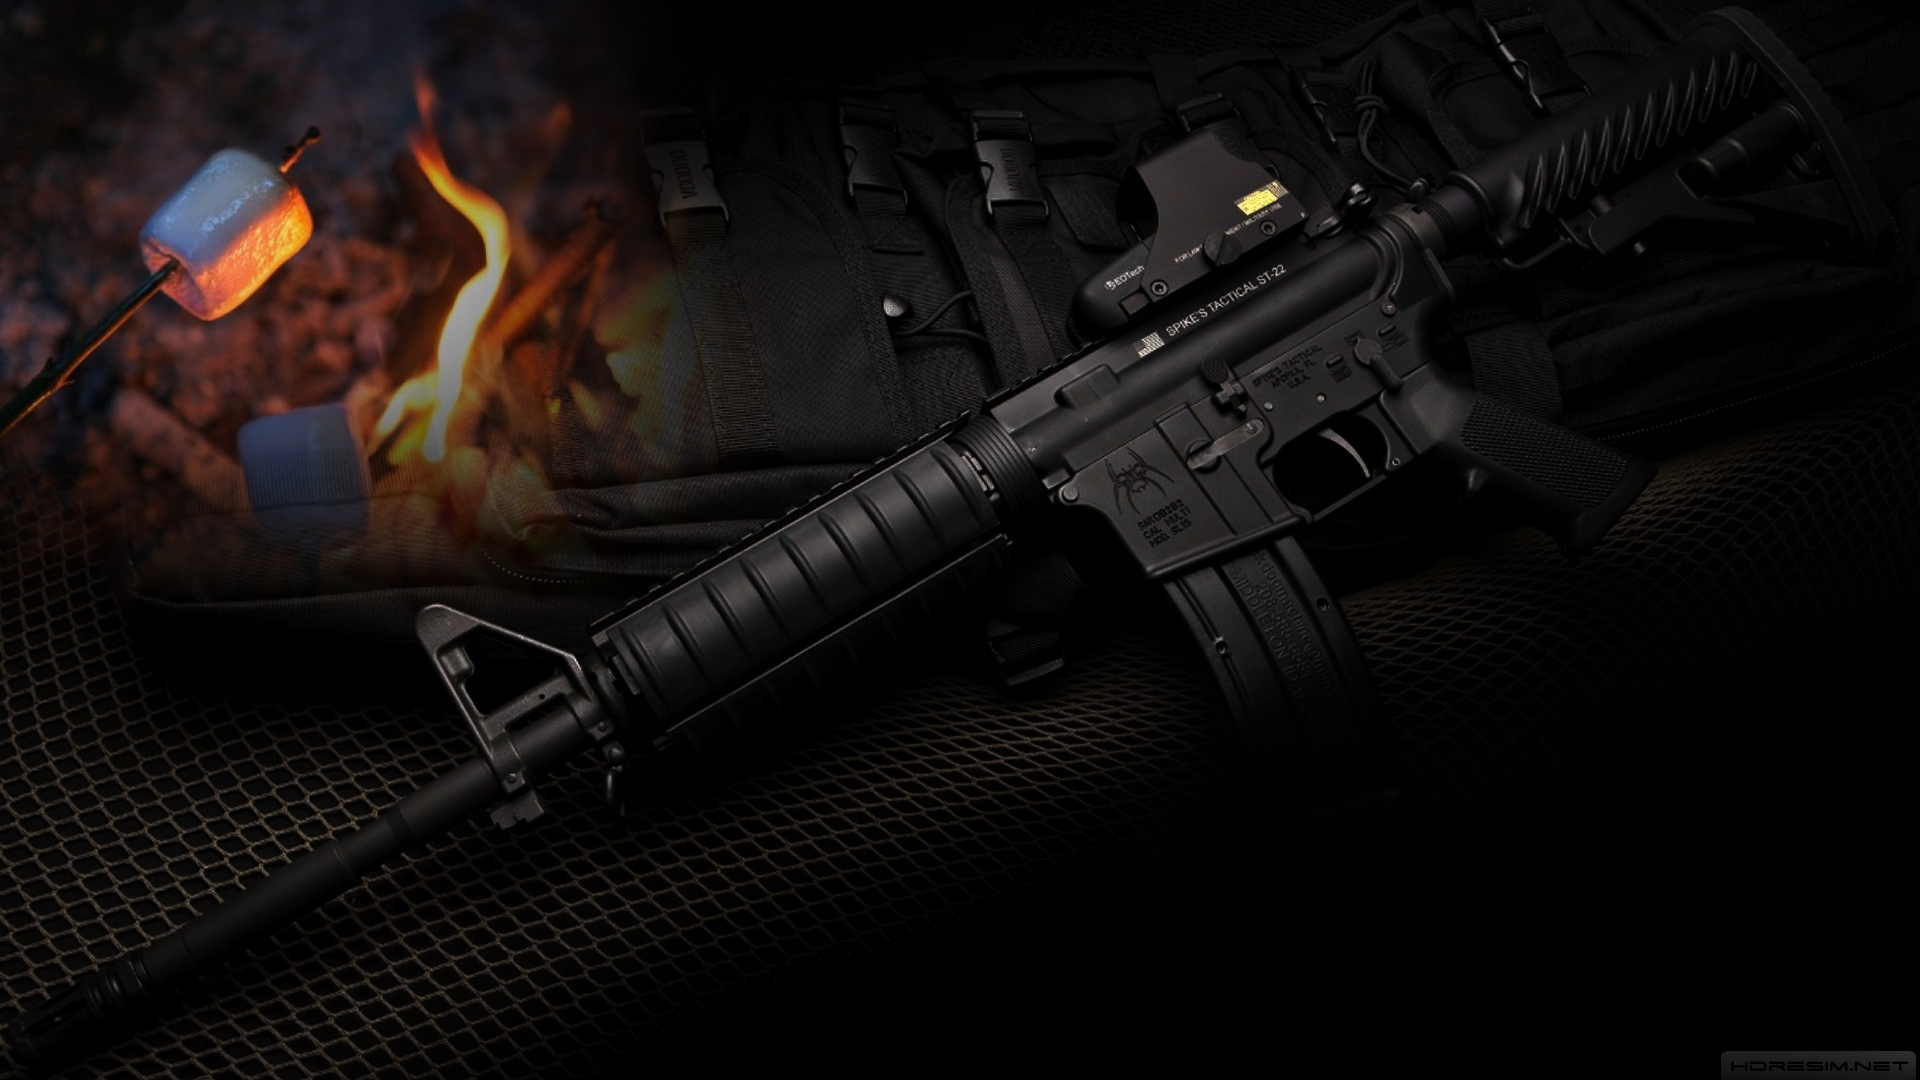
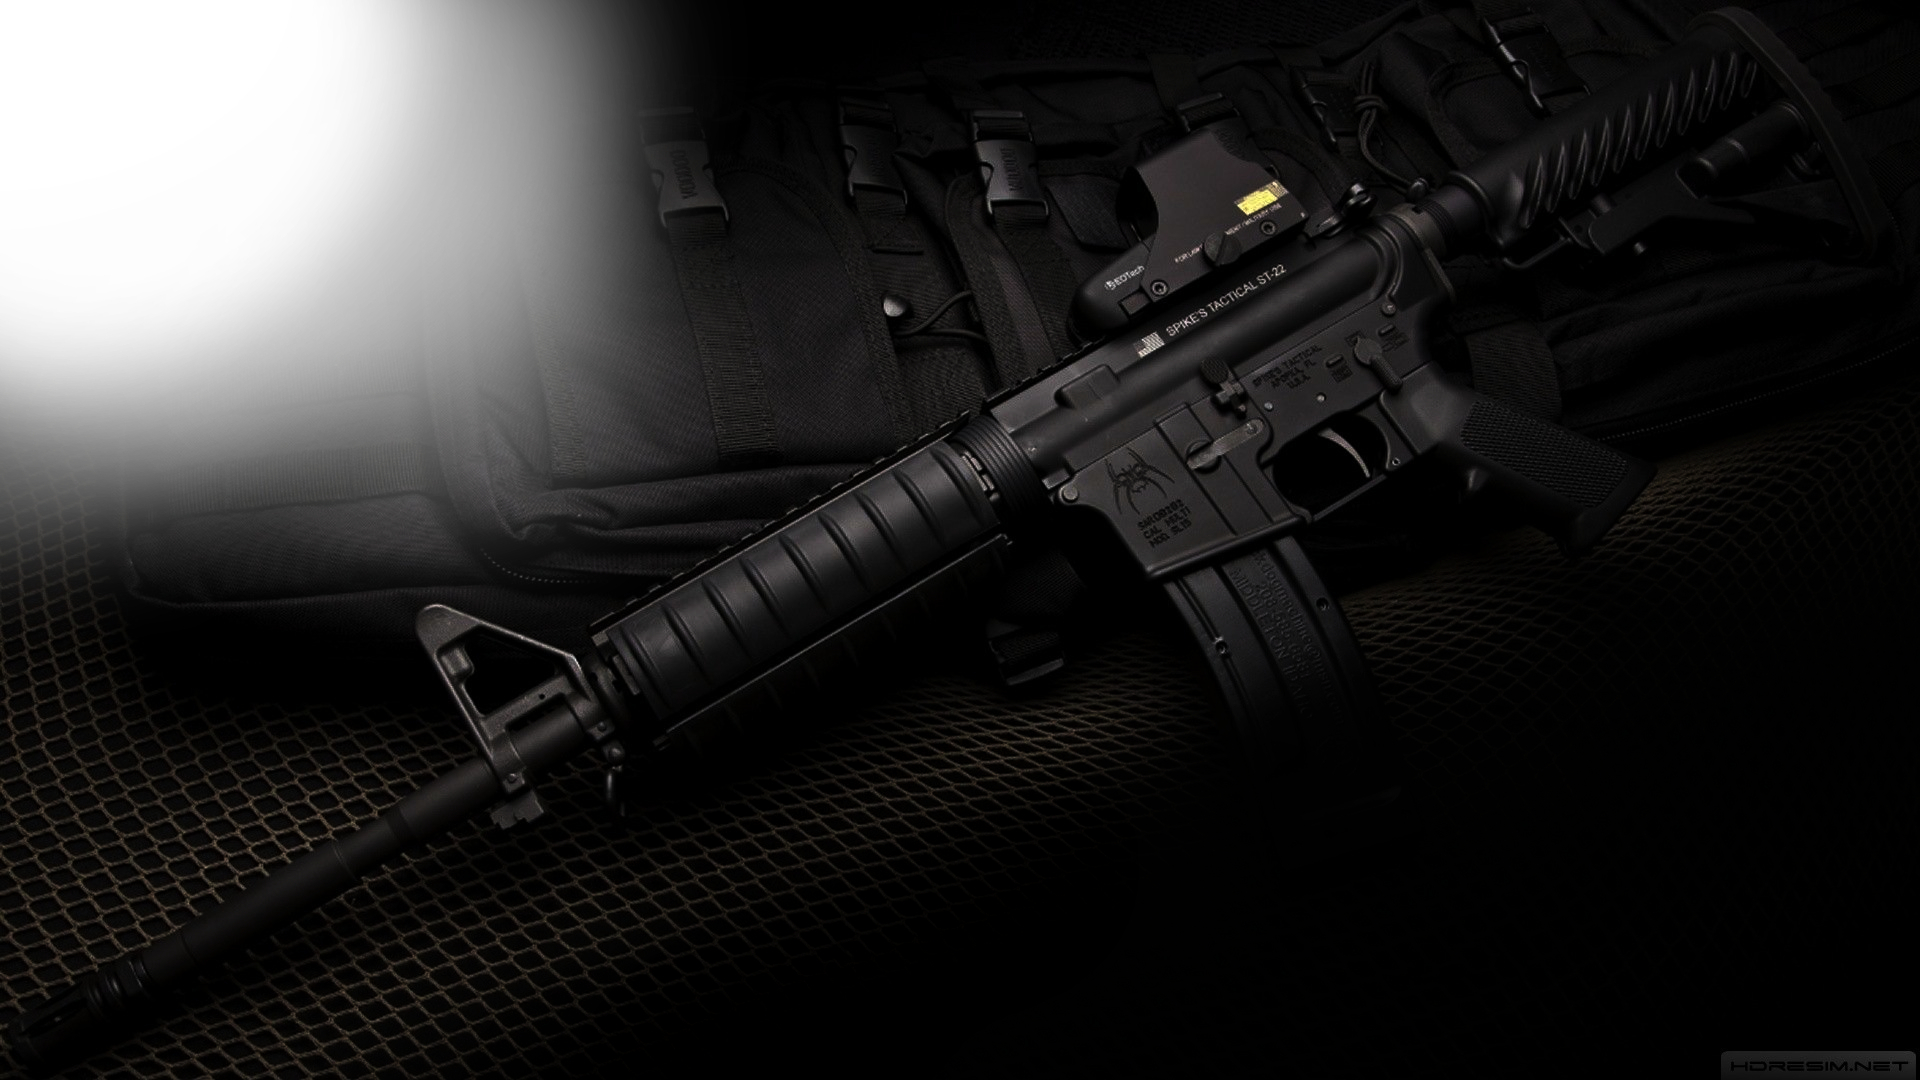
animowane tlo!

Changed region(s): [[0.0, 0.0, 0.3438, 0.55]]

diff --git a/app/assets/styles/styles.css b/app/assets/styles/styles.css
@@ -42,7 +42,14 @@ wbr:after {
 }
 
 /* ============================================= S E K C J E =========================================== */
-
+.campfire{
+    position: fixed;
+    width:1200px;
+    height:1200px;
+    z-index: -200;
+    left:-200px;
+    top:-200px;
+}
 .landingPage {
     position: relative;
     width: 100%;
@@ -90,12 +97,13 @@ wbr:after {
         }
 
     }
-    img {
+    .m4a1 {
         position: fixed;
         z-index: -100;
         min-width: 100vw;
         min-height: 100vh;
     }
+
     .logo {
         position: absolute;
         top: 25vh;
@@ -126,8 +134,11 @@ wbr:after {
         line-height: 2rem;
         position: absolute;
         right:10%;
-        bottom:10%;
+        bottom:120px;
         font-size: 1.5rem;
+        p{
+            padding-bottom:20px;
+        }
     }
 }
 .section_title{
@@ -142,14 +153,15 @@ wbr:after {
 .oferta {
     font-size: 1rem;
     position: relative;
+    min-height: 100vh;
     /* Permalink - use to edit and share this gradient: http://colorzilla.com/gradient-editor/#000000+100,000000+100&0+1,1+14,1+100 */
-background: -moz-linear-gradient(top, rgba(0,0,0,0) 1%, rgba(0,0,0,1) 14%, rgba(0,0,0,1) 100%); /* FF3.6-15 */
-background: -webkit-linear-gradient(top, rgba(0,0,0,0) 1%,rgba(0,0,0,1) 14%,rgba(0,0,0,1) 100%); /* Chrome10-25,Safari5.1-6 */
-background: linear-gradient(to bottom, rgba(0,0,0,0) 1%,rgba(0,0,0,1) 14%,rgba(0,0,0,1) 100%); /* W3C, IE10+, FF16+, Chrome26+, Opera12+, Safari7+ */
+background: -moz-linear-gradient(top, rgba(0,0,0,0) 0%, rgba(0,0,0,1) 14%, rgba(0,0,0,1) 100%); /* FF3.6-15 */
+background: -webkit-linear-gradient(top, rgba(0,0,0,0) 0%,rgba(0,0,0,1) 14%,rgba(0,0,0,1) 100%); /* Chrome10-25,Safari5.1-6 */
+background: linear-gradient(to bottom, rgba(0,0,0,0) 0%,rgba(0,0,0,1) 14%,rgba(0,0,0,1) 100%); /* W3C, IE10+, FF16+, Chrome26+, Opera12+, Safari7+ */
 filter: progid:DXImageTransform.Microsoft.gradient( startColorstr='#00000000', endColorstr='#000000',GradientType=0 ); /* IE6-9 */
     display: flex;
     flex-direction: column;
-    justify-content: space-around;
+    justify-content: space-evenly;
     padding-top: 200px;
     p {
         font-family: hemi;

diff --git a/app/styles.css b/app/styles.css
@@ -526,6 +526,15 @@ wbr:after {
 
 /* ============================================= S E K C J E =========================================== */
 
+.campfire{
+    position: fixed;
+    width:1200px;
+    height:1200px;
+    z-index: -200;
+    left:-200px;
+    top:-200px;
+}
+
 .landingPage {
     position: relative;
     width: 100%;
@@ -581,7 +590,7 @@ wbr:after {
   border-color:rgb(189, 0, 0);
 }
 
-.landingPage img {
+.landingPage .m4a1 {
   position: fixed;
   z-index: -100;
   min-width: 100vw;
@@ -624,8 +633,12 @@ wbr:after {
   line-height: 2rem;
   position: absolute;
   right:10%;
-  bottom:10%;
+  bottom:120px;
   font-size: 1.5rem;
+}
+
+.landingPage .opis p{
+  padding-bottom:20px;
 }
 
 .section_title{
@@ -640,8 +653,9 @@ wbr:after {
 .oferta {
     font-size: 1rem;
     position: relative;
+    min-height: 100vh;
     /* Permalink - use to edit and share this gradient: http://colorzilla.com/gradient-editor/#000000+100,000000+100&0+1,1+14,1+100 */ /* FF3.6-15 */ /* Chrome10-25,Safari5.1-6 */
-background: linear-gradient(to bottom, rgba(0,0,0,0) 1%,rgba(0,0,0,1) 14%,rgba(0,0,0,1) 100%); /* W3C, IE10+, FF16+, Chrome26+, Opera12+, Safari7+ */
+background: linear-gradient(to bottom, rgba(0,0,0,0) 0%,rgba(0,0,0,1) 14%,rgba(0,0,0,1) 100%); /* W3C, IE10+, FF16+, Chrome26+, Opera12+, Safari7+ */
 filter: progid:DXImageTransform.Microsoft.gradient( startColorstr='#00000000', endColorstr='#000000',GradientType=0 ); /* IE6-9 */
     display: -webkit-box;
     display: -ms-flexbox;
@@ -650,8 +664,9 @@ filter: progid:DXImageTransform.Microsoft.gradient( startColorstr='#00000000', e
     -webkit-box-direction: normal;
         -ms-flex-direction: column;
             flex-direction: column;
-    -ms-flex-pack: distribute;
-        justify-content: space-around;
+    -webkit-box-pack: space-evenly;
+        -ms-flex-pack: space-evenly;
+            justify-content: space-evenly;
     padding-top: 200px;
 }
 

diff --git a/app/index.html b/app/index.html
@@ -13,7 +13,9 @@
 		<div class="bar centererd rotating"></div>
 	</div>
 	<div class="landingPage">
-		<img src="assets/images/m4a1.jpg" alt="">
+		<img class="campfire" src="assets/images/campfire_anim.gif" alt="">
+		<img class="m4a1" src="assets/images/m4a1.png" alt="">
+
 		<div class="menu">
 			<button>HOME</button>
 			<button>OFERTA</button>
@@ -29,7 +31,7 @@
 		<button class="ofertaBtn glass">POZNAJ OFERTĘ</button>
 		<div class="opis">
 			<p>Naucz się bezpiecznie obsługiwać i strzelać z broni małokalibrowej pod okiem doswiadczonego instruktora.</p>
-			<p> Spędź dzien pełen wrażeń z grupą znajomych na strzelnicy i wypocznij przy grillu w gorach swietokrzyskich.</p>
+			<p> Spędź dzien pełen wrażeń z grupą znajomych na strzelnicy a wieczorem wypocznij przy grillu</p>
 		</div>
 	</div>
 

diff --git a/app/assets/scripts/menu.js b/app/assets/scripts/menu.js
@@ -21,3 +21,11 @@ var Menu_Down = false;
 
         }
 });
+
+(window).addEventListener("scroll", function (e) {
+    if($(window).scrollTop()>250 && !Menu_Down)
+    {
+        $(".menu").slideUp("slow");
+    }
+
+});

diff --git a/app/assets/scripts/onload.js b/app/assets/scripts/onload.js
@@ -1,5 +1,4 @@
 $(window).on("load", function() {
 	$('#home').addClass("czerwone");
 	$('#loading').fadeOut(2000);
-	$('.menu').hide();
 });
